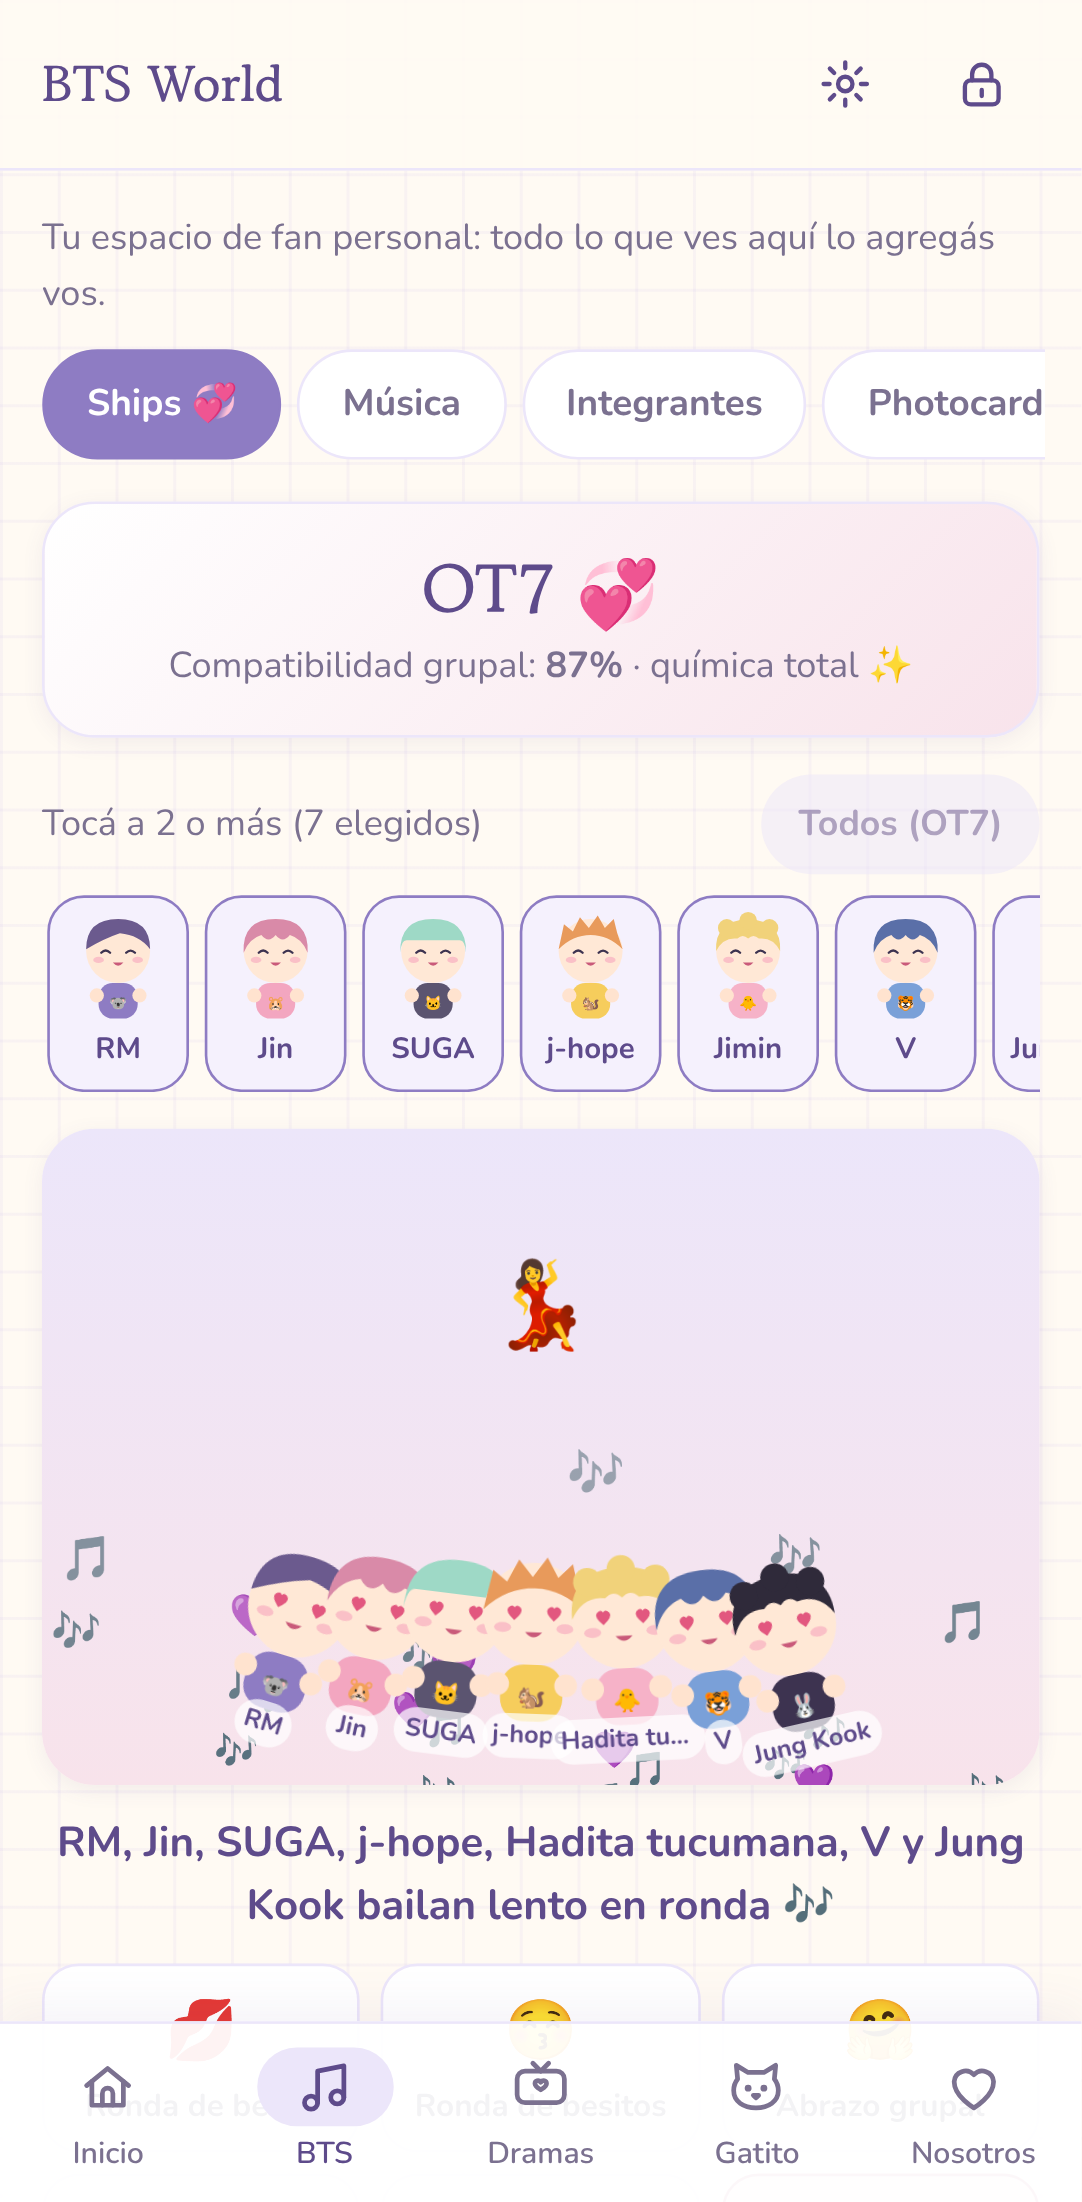
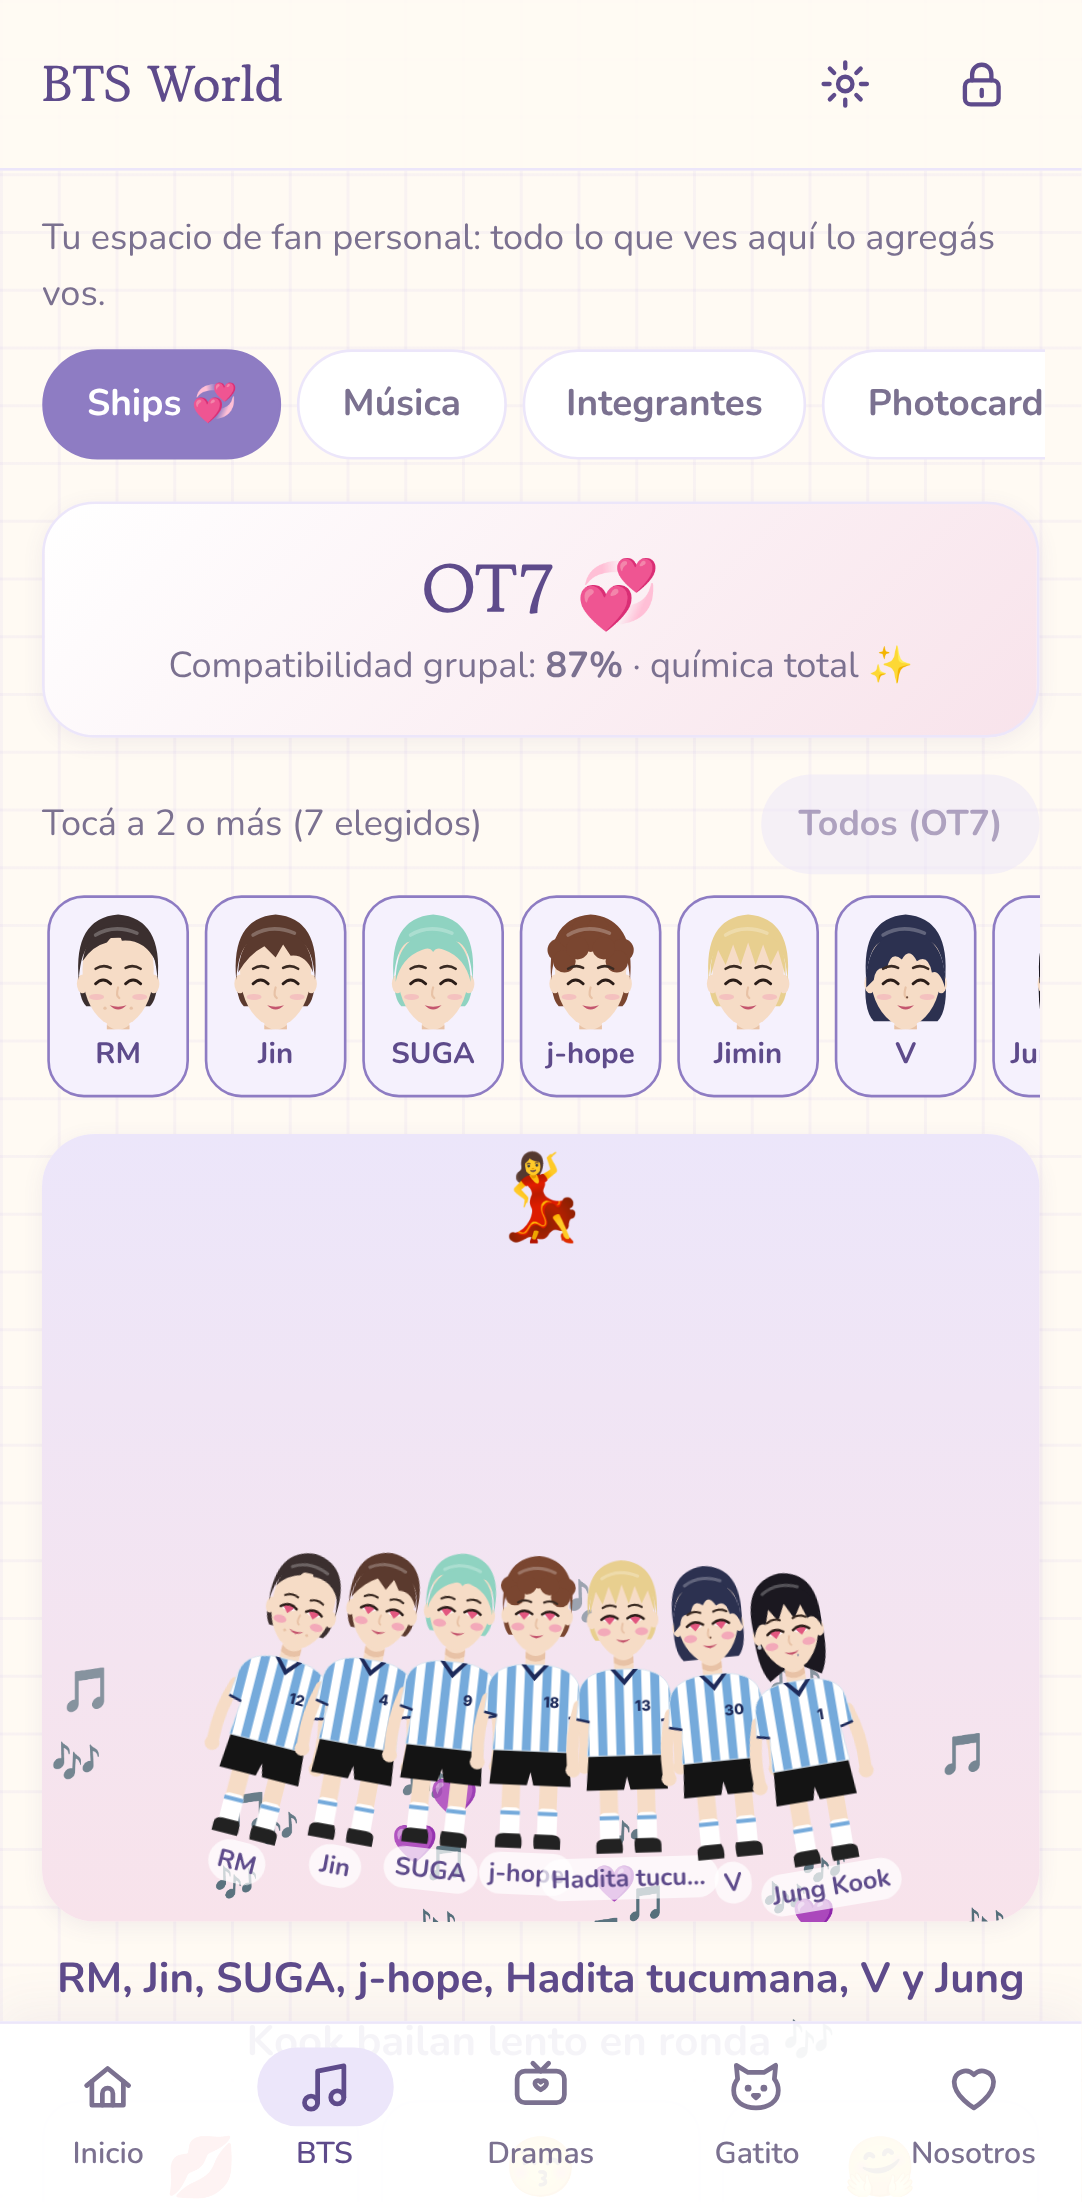
Ships: personajes ilustrados estilo webtoon con la camiseta de Argentina
Claude-Session: https://claude.ai/code/session_01DUTKc2G7JwUcKAgUwEJx8U

diff --git a/src/pages/ShipCharacter.tsx b/src/pages/ShipCharacter.tsx
@@ -1,0 +1,171 @@
+import type { Mood, ShipMember } from '../lib/ships';
+
+// Personaje ilustrado estilo webtoon (dibujo vectorial, sin fotos), con la camiseta de Argentina.
+const SKIN = '#f6dcc6';
+const SKIN_SH = '#e8c2a6';
+const CELESTE = '#75aadb';
+const NAVY = '#1d2a5a';
+
+function BackHair({ m }: { m: ShipMember }) {
+  if (m.style === 'mullet') return <path d="M29 40 Q27 66 34 76 L44 70 L56 70 L66 76 Q73 66 71 40Z" fill={m.hair} />;
+  if (m.style === 'wavy') return <path d="M29 42 Q27 62 33 68 L67 68 Q73 62 71 42Z" fill={m.hair} />;
+  return <path d="M29 44 Q29 56 33 60 L67 60 Q71 56 71 44Z" fill={m.hair} />;
+}
+
+function FrontHair({ m }: { m: ShipMember }) {
+  const c = m.hair;
+  const cap = <path d="M29 46 Q26 13 50 11 Q74 13 71 46 Q70 30 64 26 Q50 21 36 26 Q30 30 29 46Z" fill={c} />;
+  let fringe;
+  switch (m.style) {
+    case 'sweep':
+      fringe = <path d="M31 36 Q34 15 56 15 Q71 18 70 36 Q64 24 52 25 Q50 18 44 26 Q36 28 31 36Z" fill={c} />;
+      break;
+    case 'soft':
+      fringe = <path d="M30 42 Q31 20 50 20 Q69 20 70 42 Q66 32 58 33 L54 27 L50 34 L44 28 Q36 32 30 42Z" fill={c} />;
+      break;
+    case 'curtain':
+      fringe = <path d="M30 47 Q30 22 50 21 Q70 22 70 47 Q67 34 56 30 Q52 28 50 31 Q48 28 44 30 Q33 34 30 47Z" fill={c} />;
+      break;
+    case 'curly':
+      fringe = (
+        <g fill={c}>
+          {[[33, 30], [39, 23], [46, 19], [54, 19], [61, 23], [67, 30], [36, 36], [64, 36], [50, 25], [43, 29], [57, 29]].map(([x, y], i) => (
+            <circle key={i} cx={x} cy={y} r={6} />
+          ))}
+        </g>
+      );
+      break;
+    case 'fluffy':
+      fringe = <path d="M30 44 L34 30 L38 38 L42 27 L46 38 L50 26 L54 38 L58 27 L62 38 L66 30 L70 44 Q71 20 50 18 Q29 20 30 44Z" fill={c} />;
+      break;
+    case 'wavy':
+      fringe = <path d="M29 50 Q28 22 50 20 Q72 22 71 50 Q68 40 64 42 Q62 32 56 36 Q52 28 48 35 Q42 30 40 40 Q34 38 33 46Z" fill={c} />;
+      break;
+    default: // mullet
+      fringe = <path d="M29 48 Q28 20 50 19 Q72 20 71 48 Q68 38 63 41 L60 32 L55 40 L50 30 L45 40 L40 32 L37 41 Q32 38 29 48Z" fill={c} />;
+  }
+  return (
+    <g>
+      {cap}
+      {fringe}
+      <path d="M38 22 Q48 16 60 21" stroke="#fff" strokeOpacity="0.25" strokeWidth="2" fill="none" strokeLinecap="round" />
+    </g>
+  );
+}
+
+function Eyes({ mood }: { mood: Mood }) {
+  const brows = (
+    <g stroke="#3a2a22" strokeWidth="1.4" strokeLinecap="round" fill="none">
+      <path d={mood === 'blush' ? 'M38 40 q4 -1.5 8 0.5' : 'M38 40 q4 -2.5 8 -0.5'} />
+      <path d={mood === 'blush' ? 'M54 40.5 q4 -2 8 -0.5' : 'M54 39.5 q4 -2 8 0.5'} />
+    </g>
+  );
+  if (mood === 'happy' || mood === 'kiss')
+    return (
+      <g>
+        {brows}
+        <g stroke="#2b1d18" strokeWidth="1.6" fill="none" strokeLinecap="round">
+          <path d={mood === 'kiss' ? 'M38 47 q4 2.5 8 0' : 'M38 48 q4 -4 8 0'} />
+          <path d={mood === 'kiss' ? 'M54 47 q4 2.5 8 0' : 'M54 48 q4 -4 8 0'} />
+          {mood === 'kiss' && <path d="M38 47 l-1.5 1.2 M62 47 l1.5 1.2" />}
+        </g>
+      </g>
+    );
+  const iris = (cx: number) =>
+    mood === 'love' ? (
+      <path d={`M${cx} 50.5 l-2.8 -3 q-1.2 -1.6 0.4 -2.6 q1.4 -0.8 2.4 0.8 q1 -1.6 2.4 -0.8 q1.6 1 0.4 2.6z`} fill="#e2577f" />
+    ) : (
+      <g>
+        <ellipse cx={cx} cy={47.5} rx={2.6} ry={3.1} fill="#3b2a22" />
+        <circle cx={cx + 0.9} cy={46.3} r={0.9} fill="#fff" />
+      </g>
+    );
+  return (
+    <g>
+      {brows}
+      <path d="M37.5 47.5 Q42 43.5 46.5 47.5 Q42 51 37.5 47.5Z" fill="#fff" />
+      <path d="M53.5 47.5 Q58 43.5 62.5 47.5 Q58 51 53.5 47.5Z" fill="#fff" />
+      {iris(42)}
+      {iris(58)}
+      <g stroke="#2b1d18" strokeWidth="1.5" fill="none" strokeLinecap="round">
+        <path d="M37 47.3 Q42 43 47 46.8" />
+        <path d="M53 46.8 Q58 43 63 47.3" />
+      </g>
+    </g>
+  );
+}
+
+function Mouth({ mood }: { mood: Mood }) {
+  if (mood === 'kiss') return <ellipse cx="50.5" cy="61" rx="2" ry="1.6" fill="#d9657f" />;
+  if (mood === 'blush') return <path d="M47 61 q3 1.5 6 0" stroke="#b5566c" strokeWidth="1.3" fill="none" strokeLinecap="round" />;
+  return <path d="M45.5 59.5 q4.5 4.5 9 0 q-4.5 1.5 -9 0Z" fill="#c4566e" />;
+}
+
+export function ShipCharacter({ m, mood = 'happy', size = 110, bust = false }: { m: ShipMember; mood?: Mood; size?: number; bust?: boolean }) {
+  const blush = mood === 'blush' || mood === 'love' || mood === 'kiss';
+  const viewBox = bust ? '22 8 56 64' : '0 0 100 200';
+  const h = bust ? (size * 64) / 56 : size * 2;
+  return (
+    <svg viewBox={viewBox} width={size} height={h} aria-hidden="true" className="chibi-svg">
+      <defs>
+        <pattern id="arg-stripes" width="11" height="10" patternUnits="userSpaceOnUse">
+          <rect width="11" height="10" fill="#fff" />
+          <rect x="0" width="5.5" height="10" fill={CELESTE} />
+        </pattern>
+      </defs>
+      {!bust && (
+        <g>
+          {/* piernas, medias y botines */}
+          <rect x="33" y="148" width="11" height="24" rx="4" fill={SKIN} />
+          <rect x="56" y="148" width="11" height="24" rx="4" fill={SKIN} />
+          <rect x="32.5" y="166" width="12" height="20" rx="3" fill="#fff" />
+          <rect x="55.5" y="166" width="12" height="20" rx="3" fill="#fff" />
+          <rect x="32.5" y="168" width="12" height="2.5" fill={CELESTE} />
+          <rect x="55.5" y="168" width="12" height="2.5" fill={CELESTE} />
+          <path d="M30 186 Q30 182 35 182 L45 182 Q47 186 46 191 L30 191Z" fill="#222" />
+          <path d="M54 182 L65 182 Q70 182 70 186 L70 191 L54 191 Q53 186 54 182Z" fill="#222" />
+          {/* short negro */}
+          <path d="M27 128 L73 128 L75 152 L52 152 L50 144 L48 152 L25 152Z" fill="#141414" />
+          <rect x="27" y="128" width="46" height="3" fill="#2a2a2a" />
+          {/* brazos */}
+          <path d="M22 100 Q16 118 17 136" stroke={SKIN} strokeWidth="7.5" strokeLinecap="round" fill="none" />
+          <path d="M78 100 Q84 118 83 136" stroke={SKIN} strokeWidth="7.5" strokeLinecap="round" fill="none" />
+          <circle cx="17" cy="139" r="4.6" fill={SKIN} />
+          <circle cx="83" cy="139" r="4.6" fill={SKIN} />
+        </g>
+      )}
+      <BackHair m={m} />
+      {/* cuello */}
+      <rect x="44" y="64" width="12" height="18" rx="4" fill={SKIN} />
+      <path d="M44 70 Q50 75 56 70 L56 74 Q50 78 44 74Z" fill={SKIN_SH} />
+      {/* camiseta albiceleste */}
+      <path d="M22 92 Q24 80 42 78 L58 78 Q76 80 78 92 L80 108 L72 110 L74 131 L26 131 L28 110 L20 108Z" fill="url(#arg-stripes)" stroke="#d7e3ef" strokeWidth="0.6" />
+      <path d="M41.5 78 L50 88 L58.5 78 L55.5 78 L50 84 L44.5 78Z" fill={NAVY} />
+      <path d="M20 108 L28 110 M80 108 L72 110" stroke={NAVY} strokeWidth="1.6" />
+      {!bust && (
+        <text x="61" y="104" fontSize="9" fontWeight="800" fill={NAVY} textAnchor="middle" fontFamily="system-ui, sans-serif">
+          {m.number}
+        </text>
+      )}
+      {/* cara */}
+      <ellipse cx="31" cy="48" rx="3" ry="5" fill={SKIN} />
+      <ellipse cx="69" cy="48" rx="3" ry="5" fill={SKIN} />
+      {m.extra === 'earring' && <circle cx="31" cy="54" r="1.3" fill="#c9cbd3" />}
+      <path d="M31 40 Q31 18 50 17 Q69 18 69 40 Q69 59 58 68 Q50 73 42 68 Q31 59 31 40Z" fill={SKIN} />
+      <FrontHair m={m} />
+      <Eyes mood={mood} />
+      <path d="M50 50 q-1.4 4.5 0.6 5.6" stroke={SKIN_SH} strokeWidth="1.2" fill="none" strokeLinecap="round" />
+      <ellipse cx="38.5" cy="55" rx="4" ry={blush ? 2.4 : 1.6} fill="#f2a0b6" opacity={blush ? 0.85 : 0.45} />
+      <ellipse cx="61.5" cy="55" rx="4" ry={blush ? 2.4 : 1.6} fill="#f2a0b6" opacity={blush ? 0.85 : 0.45} />
+      <Mouth mood={mood} />
+      {m.extra === 'dimples' && (
+        <g fill={SKIN_SH}>
+          <circle cx="43" cy="61" r="0.9" />
+          <circle cx="57" cy="61" r="0.9" />
+        </g>
+      )}
+      {m.extra === 'mole' && <circle cx="50.8" cy="55.2" r="0.6" fill="#6b4a3a" />}
+      {m.extra === 'earring' && <circle cx="53.5" cy="62.5" r="0.7" fill="#9a9aa8" />}
+    </svg>
+  );
+}

diff --git a/src/pages/Ships.tsx b/src/pages/Ships.tsx
@@ -4,81 +4,10 @@ import { btsDoc } from '../lib/docs';
 import { toast } from '../components/ui';
 import {
   SHIP_ACTIONS, SHIP_MEMBERS, FORBIDDEN_NICKNAME_MSG, NICKNAME_MAX, actionLine, compatibility, displayName,
-  isForbiddenNickname, joinNames, memberById, nicknamesOf, shipName, type Mood, type ShipAction, type ShipMember,
+  isForbiddenNickname, joinNames, memberById, nicknamesOf, shipName, type ShipAction,
 } from '../lib/ships';
+import { ShipCharacter } from './ShipCharacter';
 import './ships.css';
-
-// ---------- Chibi dibujado en SVG (caricatura, sin fotos) ----------
-function Hair({ m }: { m: ShipMember }) {
-  const c = m.hair;
-  switch (m.style) {
-    case 'side':
-      return <path d="M14 46 Q14 12 50 12 Q86 12 86 46 Q74 30 52 28 Q34 34 14 46Z" fill={c} />;
-    case 'curtain':
-      return <path d="M14 50 Q12 12 50 12 Q88 12 86 50 Q80 34 66 30 Q58 40 50 30 Q42 40 34 30 Q20 34 14 50Z" fill={c} />;
-    case 'spiky':
-      return <path d="M14 46 L20 18 L30 26 L38 10 L48 22 L58 8 L66 22 L76 12 L80 28 L86 46 Q70 30 50 30 Q30 30 14 46Z" fill={c} />;
-    case 'bowl':
-      return <path d="M13 50 Q12 12 50 12 Q88 12 87 50 Q86 36 80 36 L20 36 Q14 36 13 50Z" fill={c} />;
-    default:
-      return (
-        <g fill={c}>
-          <path d="M14 48 Q12 14 50 12 Q88 14 86 48 Q78 32 62 34 Q56 28 50 34 Q44 28 38 34 Q22 32 14 48Z" />
-          <circle cx="26" cy="22" r="10" />
-          <circle cx="50" cy="14" r="10" />
-          <circle cx="74" cy="22" r="10" />
-        </g>
-      );
-  }
-}
-
-function Eyes({ mood }: { mood: Mood }) {
-  if (mood === 'love')
-    return (
-      <g fill="#e2577f">
-        <path d="M33 50 q-4-5 0-7 q2-1 3 1 q1-2 3-1 q4 2 0 7 l-3 3z" />
-        <path d="M61 50 q-4-5 0-7 q2-1 3 1 q1-2 3-1 q4 2 0 7 l-3 3z" />
-      </g>
-    );
-  if (mood === 'kiss' || mood === 'happy')
-    return (
-      <g stroke="#3d3350" strokeWidth="2.6" fill="none" strokeLinecap="round">
-        <path d={mood === 'kiss' ? 'M31 49 q5 3 10 0' : 'M31 50 q5-5 10 0'} />
-        <path d={mood === 'kiss' ? 'M59 49 q5 3 10 0' : 'M59 50 q5-5 10 0'} />
-      </g>
-    );
-  return (
-    <g fill="#3d3350">
-      <ellipse cx="36" cy="49" rx="4" ry="5" />
-      <ellipse cx="64" cy="49" rx="4" ry="5" />
-      <circle cx="37.5" cy="47" r="1.4" fill="#fff" />
-      <circle cx="65.5" cy="47" r="1.4" fill="#fff" />
-    </g>
-  );
-}
-
-function Mouth({ mood }: { mood: Mood }) {
-  if (mood === 'kiss') return <path d="M47 63 q4-3 6 0 q-2 2 0 4 q-3 3-6 0" fill="#e2577f" />;
-  if (mood === 'blush') return <path d="M45 63 q5 3 10 0" stroke="#3d3350" strokeWidth="2.2" fill="none" strokeLinecap="round" />;
-  return <path d="M44 61 q6 7 12 0 z" fill="#c95a7a" />;
-}
-
-export function Chibi({ m, mood = 'happy', size = 120 }: { m: ShipMember; mood?: Mood; size?: number }) {
-  return (
-    <svg viewBox="0 0 100 130" width={size} height={size * 1.3} aria-hidden="true" className="chibi-svg">
-      <rect x="28" y="84" width="44" height="40" rx="16" fill={m.outfit} />
-      <circle cx="26" cy="98" r="8" fill="#ffe3cf" />
-      <circle cx="74" cy="98" r="8" fill="#ffe3cf" />
-      <circle cx="50" cy="48" r="36" fill="#ffe8d6" />
-      <Hair m={m} />
-      <Eyes mood={mood} />
-      <ellipse cx="28" cy="58" rx="6" ry={mood === 'blush' ? 5 : 3.5} fill="#f6a5bd" opacity={mood === 'blush' ? 0.95 : 0.6} />
-      <ellipse cx="72" cy="58" rx="6" ry={mood === 'blush' ? 5 : 3.5} fill="#f6a5bd" opacity={mood === 'blush' ? 0.95 : 0.6} />
-      <Mouth mood={mood} />
-      <text x="50" y="112" fontSize="16" textAnchor="middle">{m.emoji}</text>
-    </svg>
-  );
-}
 
 const FX_CHARS: Record<ShipAction['fx'], string[]> = {
   hearts: ['💜', '💗', '💕', '🩷', '💞'],
@@ -106,7 +35,7 @@ export function ShipsTab() {
   const group = n > 2;
   const line = action ? actionLine(action, names, run) : `Elegí qué hacen ${joinNames(names)} 💜`;
   const pct = compatibility(...sel);
-  const size = Math.min(110, Math.floor(380 / n));
+  const size = Math.min(120, Math.floor(440 / n));
 
   const fx = useMemo(
     () =>
@@ -169,7 +98,7 @@ export function ShipsTab() {
             className={`ship-pick ${sel.includes(m.id) ? 'on' : ''}`}
             onClick={() => toggle(m.id)}
           >
-            <Chibi m={m} size={38} />
+            <ShipCharacter m={m} size={40} bust />
             <span>{m.name}</span>
           </button>
         ))}
@@ -196,7 +125,7 @@ export function ShipsTab() {
               className={`ship-chibi ${i === 0 ? 'lead' : ''}`}
               style={{ '--off': (n - 1) / 2 - i, '--size': `${size}px`, animationDelay: action?.id === 'baile' || action?.id === 'abrazo' ? undefined : `${i * 0.06}s` } as CSSProperties}
             >
-              <Chibi m={m} mood={(i === 0 ? action?.moodA : action?.moodB) ?? 'happy'} size={size} />
+              <ShipCharacter m={m} mood={(i === 0 ? action?.moodA : action?.moodB) ?? 'happy'} size={size} />
               <span className="ship-name">{names[i]}</span>
             </div>
           ))}

diff --git a/src/pages/ships.css b/src/pages/ships.css
@@ -11,10 +11,10 @@
   padding: 4px 6px 6px; font-size: 0.7rem; font-weight: 700; color: var(--muted); cursor: pointer; min-width: 54px;
 }
 .ship-pick.on { border-color: var(--violet); background: var(--lavender-mist); color: var(--violet-deep); }
-.ship-pick svg { height: 44px; width: 38px; }
+.ship-pick svg { height: 46px; width: 40px; }
 
 .ship-stage {
-  position: relative; overflow: hidden; border-radius: var(--radius); height: 250px;
+  position: relative; overflow: hidden; border-radius: var(--radius); height: 300px;
   background: linear-gradient(180deg, var(--lavender-soft) 0%, var(--rose-soft) 100%);
   box-shadow: var(--shadow-sm); transition: background 0.6s;
 }
@@ -27,26 +27,27 @@
 
 .ship-pair { position: absolute; inset: auto 0 10px; display: flex; justify-content: center; align-items: flex-end; }
 .ship-chibi {
-  --step-close: calc(var(--size) * 0.25); --step-touch: calc(var(--size) * 0.6);
-  display: flex; flex-direction: column; align-items: center; margin: 0 calc(var(--size) * -0.1);
+  --step-close: calc(var(--size) * 0.12); --step-touch: 0px;
+  display: flex; flex-direction: column; align-items: center; margin: 0 calc(var(--size) * -0.16);
+  transform-origin: 50% 100%;
 }
-.ship-chibi .chibi-svg { width: var(--size); height: calc(var(--size) * 1.3); }
-.is-group .ship-chibi { --step-close: calc(var(--size) * 0.12); --step-touch: calc(var(--size) * 0.22); }
+.ship-chibi .chibi-svg { width: var(--size); height: calc(var(--size) * 2); }
+.is-group .ship-chibi { --step-close: calc(var(--size) * 0.06); --step-touch: calc(var(--size) * 0.08); }
 .is-crowd .ship-name { font-size: 0.6rem; padding: 1px 4px; max-width: calc(var(--size) * 1.1); overflow: hidden; text-overflow: ellipsis; white-space: nowrap; }
 .ship-name {
   font-weight: 700; font-size: 0.75rem; color: var(--violet-deep); background: rgba(255, 255, 255, 0.7);
-  padding: 2px 8px; border-radius: 999px; margin-top: -6px; max-width: 120px; text-align: center;
+  padding: 2px 8px; border-radius: 999px; margin-top: -4px; max-width: 120px; text-align: center;
 }
-.ship-mid { position: absolute; left: 50%; top: 34%; margin-left: -20px; width: 40px; font-size: 1.6rem; text-align: center; z-index: 2; animation: pop 0.6s ease-out both; }
+.ship-mid { position: absolute; left: 50%; top: 14%; margin-left: -20px; width: 40px; font-size: 1.6rem; text-align: center; z-index: 2; animation: pop 0.6s ease-out both; }
 
 /* acercarse */
 .move-close .ship-chibi { animation: closeIn 0.9s ease-out forwards; }
 .move-touch .ship-chibi { animation: touchIn 1s ease-out forwards; }
 .move-touch .ship-mid { animation: popMid 1s ease-out 0.6s both; }
 @keyframes closeIn { to { transform: translateX(calc(var(--off) * var(--step-close))); } }
-@keyframes touchIn { to { transform: translateX(calc(var(--off) * var(--step-touch))) rotate(calc(var(--off) * 16deg)); } }
+@keyframes touchIn { to { transform: translateX(calc(var(--off) * var(--step-touch))) rotate(calc(var(--off) * 14deg)); } }
 .is-group.move-touch .ship-chibi { animation-name: touchInGroup; }
-@keyframes touchInGroup { to { transform: translateX(calc(var(--off) * var(--step-touch))) rotate(calc(var(--off) * 5deg)); } }
+@keyframes touchInGroup { to { transform: translateX(calc(var(--off) * var(--step-touch))) rotate(calc(var(--off) * 4deg)); } }
 @keyframes pop { from { transform: scale(0); } 70% { transform: scale(1.3); } to { transform: scale(1); } }
 @keyframes popMid { from { transform: scale(0); } 60% { transform: scale(1.6) translateY(-20px); } to { transform: scale(1.2) translateY(-30px); } }
 

diff --git a/src/lib/ships.ts b/src/lib/ships.ts
@@ -1,22 +1,23 @@
-// Ships de BTS: avatares chibi dibujados (sin fotos), acciones tiernas y apodos editables.
+// Ships de BTS: personajes ilustrados (sin fotos), acciones tiernas y apodos editables.
 
 export interface ShipMember {
   id: string;
   name: string;
   emoji: string;
   hair: string;
-  outfit: string;
-  style: 'side' | 'curtain' | 'spiky' | 'fluffy' | 'bowl';
+  number: number; // dorsal: el día de su cumpleaños
+  style: 'sweep' | 'soft' | 'curtain' | 'curly' | 'fluffy' | 'wavy' | 'mullet';
+  extra?: 'dimples' | 'mole' | 'earring';
 }
 
 export const SHIP_MEMBERS: ShipMember[] = [
-  { id: 'rm', name: 'RM', emoji: '🐨', hair: '#6b5a8e', outfit: '#8e7cc3', style: 'side' },
-  { id: 'jin', name: 'Jin', emoji: '🐹', hair: '#d98aa8', outfit: '#f3a6c0', style: 'curtain' },
-  { id: 'suga', name: 'SUGA', emoji: '🐱', hair: '#9ed9c6', outfit: '#5b5470', style: 'bowl' },
-  { id: 'jhope', name: 'j-hope', emoji: '🐿', hair: '#e89a5b', outfit: '#f6cd5c', style: 'spiky' },
-  { id: 'jimin', name: 'Jimin', emoji: '🐥', hair: '#f1d27a', outfit: '#f6b2c8', style: 'fluffy' },
-  { id: 'v', name: 'V', emoji: '🐯', hair: '#5a6fa8', outfit: '#7aa0d8', style: 'curtain' },
-  { id: 'jk', name: 'Jung Kook', emoji: '🐰', hair: '#2f2a3a', outfit: '#3d3350', style: 'fluffy' },
+  { id: 'rm', name: 'RM', emoji: '🐨', hair: '#3b2f2f', number: 12, style: 'sweep', extra: 'dimples' },
+  { id: 'jin', name: 'Jin', emoji: '🐹', hair: '#5b3a2e', number: 4, style: 'soft' },
+  { id: 'suga', name: 'SUGA', emoji: '🐱', hair: '#8fd3c1', number: 9, style: 'curtain' },
+  { id: 'jhope', name: 'j-hope', emoji: '🐿', hair: '#7a4630', number: 18, style: 'curly' },
+  { id: 'jimin', name: 'Jimin', emoji: '🐥', hair: '#e8cf8f', number: 13, style: 'fluffy' },
+  { id: 'v', name: 'V', emoji: '🐯', hair: '#2c3150', number: 30, style: 'wavy', extra: 'mole' },
+  { id: 'jk', name: 'Jung Kook', emoji: '🐰', hair: '#1b1820', number: 1, style: 'mullet', extra: 'earring' },
 ];
 
 export const DEFAULT_NICKNAMES: Record<string, string> = { jimin: 'Hadita tucumana' };

diff --git a/tests/e2e/ships.spec.ts b/tests/e2e/ships.spec.ts
@@ -31,6 +31,8 @@ test('ships: acciones animadas y apodos con filtro', async ({ page }) => {
   await page.getByRole('button', { name: /Abrazo grupal/ }).click();
   await expect(page.getByText(/Abrazo grupal!|no los suelta/)).toBeVisible();
   await page.getByRole('button', { name: 'Todos (OT7)' }).click();
+  await page.evaluate(() => window.scrollTo(0, 380));
+  await page.screenshot({ path: 'docs/screenshots/39-ships-personajes.png' });
   await page.getByRole('button', { name: /Baile en ronda/ }).click();
   await expect(page.getByRole('heading', { name: /OT7/ })).toBeVisible();
   await page.waitForTimeout(1400);
